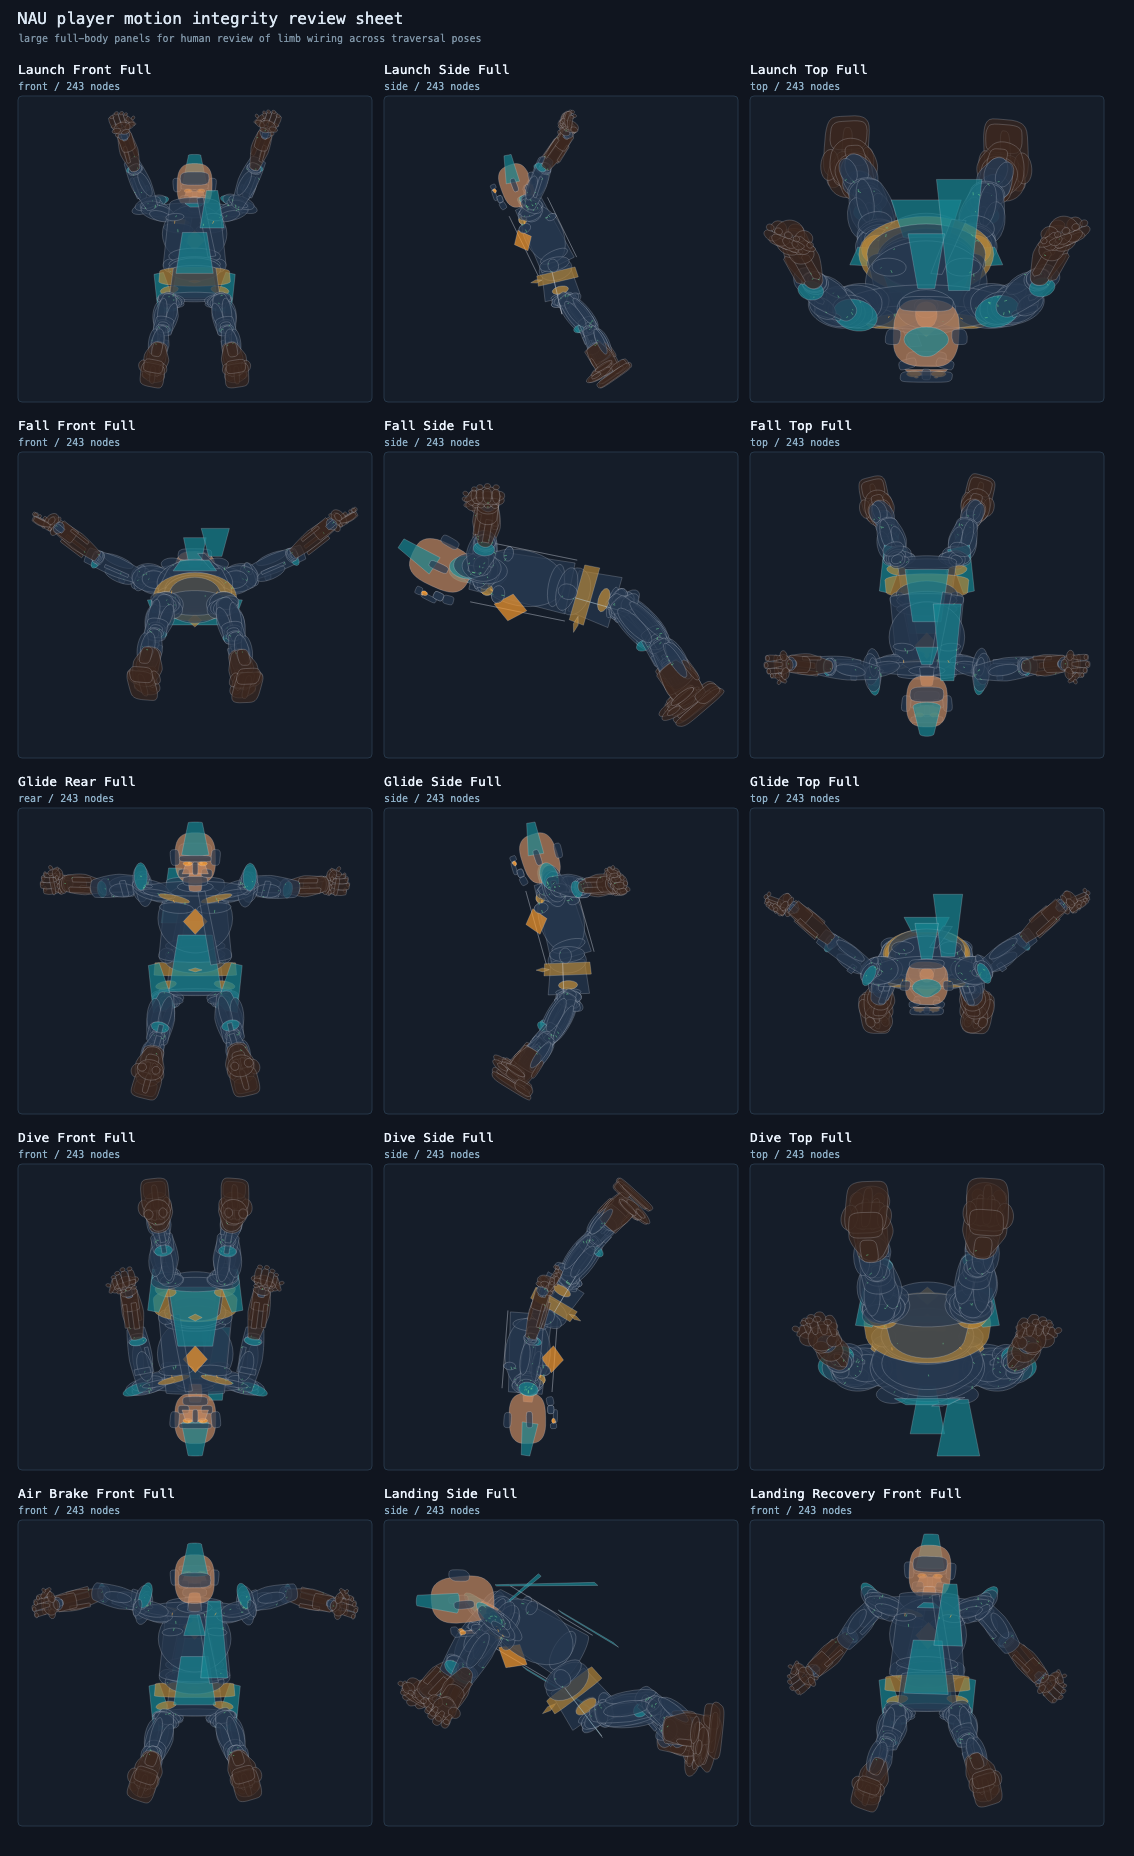
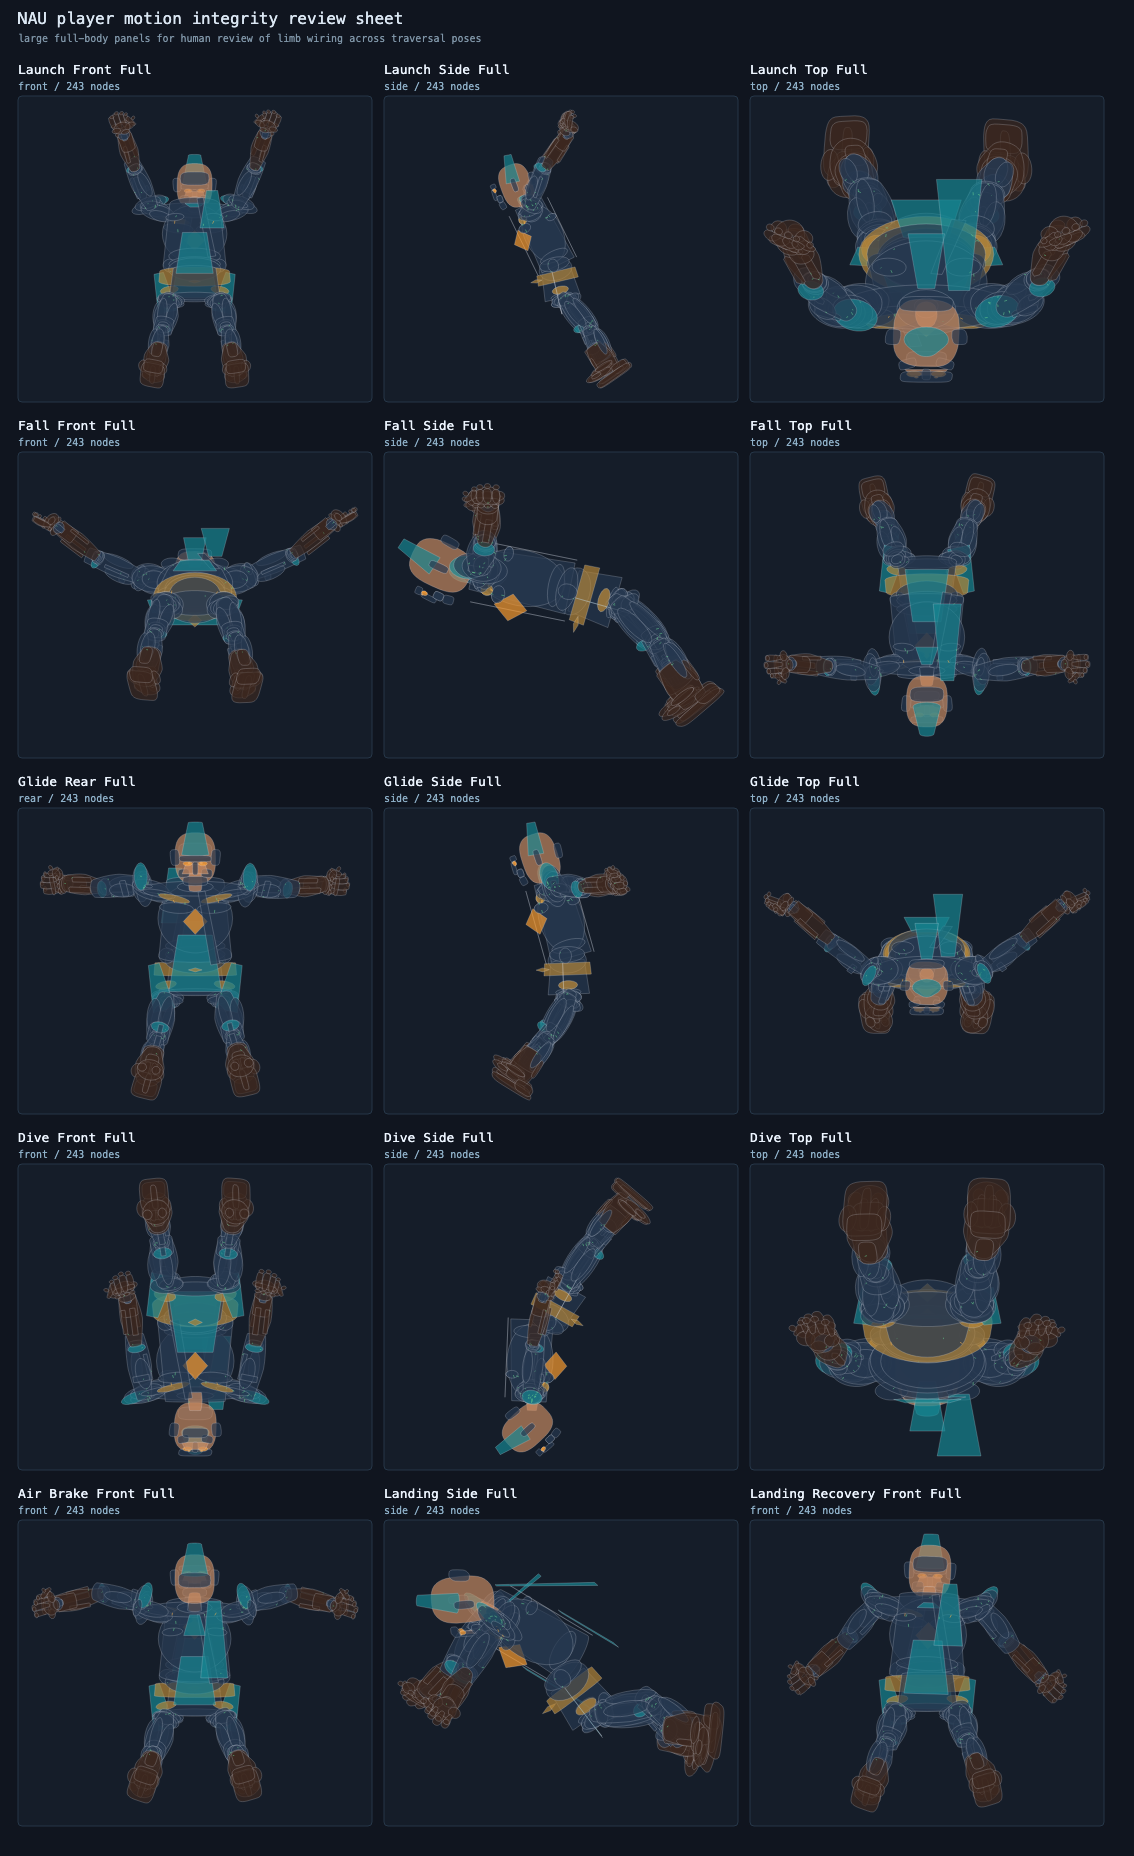
Refresh project showcase and documentation

Changed region(s): [[0.0926, 0.6562, 0.2469, 0.7812], [0.7099, 0.6562, 0.9259, 0.7812], [0.4321, 0.6562, 0.5556, 0.7812]]

diff --git a/README.md b/README.md
@@ -1,50 +1,37 @@
 # NAU Engine
 
-Mac-first Rust/Bevy flight sandbox for tuning traversal feel before growing into a broader engine.
+Mac-first Rust/Bevy flight traversal sandbox built around one playable loop: launch from the terrain, deploy the glider, read wind and lift, collect a route of one-shot air gates, land on an island or the world floor, then relaunch or reset.
 
-The current focus is narrow: make glide, dive, lift, camera framing, authored player motion, and route readability measurable enough that changes can be reviewed by eye and by eval output.
+The current world combines **41 floating islands** with a streamed playable world floor. Twelve non-overlapping air gates form a three-gate main corridor plus optional low and high-altitude branches; the top-right HUD tracks unique collections, and `Esc` opens a compact pause, controls, and quit menu.
 
 <p align="center">
-  <img src="docs/showcase/great_sky_plateau_high_crossing.png" alt="Glider crossing the high archipelago route" width="100%">
+  <img src="docs/showcase/air_gate_route_midflight.png" alt="Nau gliding through the twelve-gate floating-island route" width="100%">
 </p>
 
 <p align="center">
-  <img src="docs/showcase/updraft_high_glide.png" alt="Glider approaching visible updraft columns and route markers" width="49%">
-  <img src="docs/showcase/player_rig_stress_review_sheet.png" alt="Player rig stress review sheet" width="49%">
+  <img src="docs/showcase/world_floor_far_route.png" alt="The air route seen above the streamed playable world floor" width="49%">
+  <img src="docs/showcase/world_floor_distant_islands.png" alt="Distant floating islands above the playable world floor" width="49%">
 </p>
 
-## What Exists
+## Current Playable State
 
-- A small third-person flight playground with launch, glide, dive, air-brake, landing anticipation, and landing recovery states.
-- A self-authored player/glider fixture with pose-intent animation, connector checks, silhouette review, and visual pose sheets.
-- Floating-island traversal routes with generated terrain, water, clouds, route markers, updraft ribbons, crosswind cues, and debug overlays.
-- Scripted evals for movement, camera stability, route progress, collision, fixture readiness, visual readability, and screenshot audits.
+- Launch, glide, steer, dive, air-brake, collect gates, land, recover, and relaunch across floating-island and world-floor terrain.
+- Traverse authored updrafts, crosswind lanes, visible airflow cues, and gust-varied wind that affects both player motion and glider response.
+- Fly a self-authored player/glider fixture with grounded, launch, fall, bank, glide, dive, brake, landing-anticipation, and recovery animation states.
+- Collide with island terrain, cliff bodies, trees, rocks, landmarks, and world-floor terrain; use the central-island reset when a route breaks down.
+- Review movement, camera, collision, route progress, streaming, visual readability, fixture integrity, and release performance through measured sim/app evals, screenshot audits, exports, and scripted play profiles.
 
-## Visual Review
-
-These are checked-in copies of generated eval artifacts. The source outputs live under `target/eval/`, `target/player_pose_preview/`, and export-specific `target/` folders after running the relevant scripts.
-
-See [Showcase](SHOWCASE.md) for the fuller image set.
-
-<p align="center">
-  <img src="docs/showcase/long_glide_archipelago_midroute.png" alt="Long glide archipelago midroute screenshot" width="49%">
-  <img src="docs/showcase/great_sky_plateau_summit_climb.png" alt="Great sky plateau summit climb screenshot" width="49%">
-</p>
-
-<p align="center">
-  <img src="docs/showcase/player_glider_attachment_sheet.png" alt="Player and glider attachment pose sheet" width="49%">
-  <img src="docs/showcase/player_motion_integrity_review_sheet.png" alt="Player motion integrity review sheet" width="49%">
-</p>
+See the [Showcase](SHOWCASE.md) for gameplay, world scale, UI, and player/glider review captures. Detailed world-floor acceptance mechanics and evidence live in the [decision record](docs/DECISIONS/0002-world-floor-perf-first.md), [requirements audit](docs/world-floor-requirements-audit.md), and [acceptance report](docs/world-floor-acceptance-report.md).
 
 ## Run
 
-Install Rust with `rustup`, then:
+Install Rust with `rustup`, then use release mode for play-feel and performance review:
 
 ```sh
 cargo run --release -- --play
 ```
 
-Use release mode for judging play feel and performance. Debug mode keeps the readout and gizmos available for development:
+Debug mode enables the diagnostic readout and gizmos:
 
 ```sh
 cargo run -- --debug
@@ -56,47 +43,6 @@ Repo-local alias:
 cargo naux
 ```
 
-## Useful Checks
-
-```sh
-cargo check
-cargo fmt --check
-cargo test
-cargo clippy --all-targets --all-features -- -D warnings
-```
-
-The world-floor revamp checkpoint is accepted. It provides playable near-original-level terrain, uses one shared terrain sampler for rendering and gameplay, preserves island-surface precedence, and maintains a streamed `3x3` visible window backed by a pool bounded to `25` tiles.
-
-Automated tooling:
-
-```sh
-./tools/world_floor_full_gate.sh
-./tools/world_floor_candidate_gate.sh
-```
-
-The accepted checkpoint has clean main-vs-candidate app perf results plus both mandatory foreground profiles:
-
-```sh
-NAU_PLAY_PROFILE_SCRIPT=freeflight ./tools/scripted_play_profile.sh target/eval/play_profile/candidate_scripted_freeflight.json
-NAU_PLAY_PROFILE_SCRIPT=ground_traversal ./tools/scripted_play_profile.sh target/eval/play_profile/candidate_scripted_ground_traversal.json
-```
-
-Automation must verify sampler parity, island precedence, visible-window coverage, the `25`-tile pool bound, frame-time and hitch budgets, mesh/material/triangle cost, and stream churn. Screenshots support visual review but cannot accept the feature.
-
-The final gate is a human release playtest on the target Mac: land on the world floor, walk, run, launch, and fly back into traversal while checking collision/grounding, transitions, camera feel, visible coverage, frame pacing, fan, and heat. This manual sequence was completed for the accepted checkpoint and remains mandatory after future behavioral changes; it has no automated waiver. A visual-only plane at `y=-260`, a one-tile floor, or a report generated only from automated evidence is not success.
-
-Visual and fixture artifacts:
-
-```sh
-./tools/player_pose_preview.sh target/player_pose_preview
-NAU_EVAL_SCREENSHOT=1 ./tools/eval.sh long_glide_visibility target/eval/long_glide_visibility
-NAU_EVAL_SCREENSHOT=1 ./tools/eval.sh updraft_route target/eval/updraft_route
-./tools/eval_sim_suite.sh target/eval/sim_suite
-./tools/terrain_export.sh target/terrain_export
-./tools/visual_content_export.sh target/visual_content_export
-./tools/wind_visual_export.sh target/wind_visual_export
-```
-
 ## Controls
 
 |Input|Action|
@@ -105,19 +51,44 @@ NAU_EVAL_SCREENSHOT=1 ./tools/eval.sh updraft_route target/eval/updraft_route
 |`A` / `D`|Strafe/steer|
 |Mouse|Look while locked or while right mouse is held|
 |Left click|Lock and hide the mouse cursor|
-|Esc|Open the pause menu; return from controls|
-|`Space`|Deploy glider while airborne|
+|`Esc`|Open the pause menu; return from controls|
+|`Space`|Deploy the glider while airborne|
 |`E`|Launch upward from the ground|
 |`Shift`|Dive|
 |`R`|Reset to the central playtest island|
 |`F1`|Toggle debug gizmos in `--debug` mode|
 
-The top-right HUD tracks unique aerial boost gates collected during the current session. Open
-the compact pause menu for the same score, the controls reference, resume, and quit actions.
+Air gates score once per session and disappear after collection. The HUD and pause menu show the same authoritative total.
+
+## Verification
+
+Core Rust checks:
+
+```sh
+cargo check
+cargo fmt --check
+cargo test
+cargo clippy --all-targets --all-features -- -D warnings
+```
+
+Representative measured tooling (`jq` is required by the aggregate scripts):
+
+```sh
+./tools/manual_play_profile.sh target/eval/play_profile/manual.json
+./tools/eval_sim_suite.sh target/eval/sim_suite
+cargo run -- --eval long_glide_visibility --eval-output target/eval/long_glide_visibility
+./tools/player_pose_preview.sh target/player_pose_preview
+./tools/terrain_export.sh target/terrain_export
+./tools/visual_content_export.sh target/visual_content_export
+./tools/wind_visual_export.sh target/wind_visual_export
+```
+
+Release comparison and world-floor regression gates remain available through `./tools/perf_baseline.sh`, `./tools/world_floor_full_gate.sh`, and `./tools/world_floor_candidate_gate.sh`. Human release play remains part of acceptance after behavioral changes; the linked acceptance documents define the full contract.
 
 ## Docs
 
 - [Architecture](docs/ARCHITECTURE.md)
+- [Project Status](docs/STATUS.md)
 - [Eval Spec](docs/EVAL_SPEC.md)
 - [Flight Mechanics](docs/MECHANICS/flight.md)
 - [Roadmap](docs/ROADMAP.md)

diff --git a/SHOWCASE.md b/SHOWCASE.md
@@ -1,21 +1,39 @@
 # NAU Engine Showcase
 
-Visual snapshots from the current Rust/Bevy traversal sandbox: clean eval screenshots, generated character rig review sheets, and export metrics from the content pipeline.
+Current gameplay captures and generated review artifacts from the Rust/Bevy traversal sandbox.
 
-## Route Captures
+## Current Gameplay
 
 <p align="center">
-  <img src="docs/showcase/great_sky_plateau_high_crossing.png" alt="Glider crossing the high archipelago route" width="100%">
+  <img src="docs/showcase/air_gate_route_midflight.png" alt="Nau gliding through the twelve-gate floating-island route" width="100%">
 </p>
 
 <p align="center">
-  <img src="docs/showcase/updraft_high_glide.png" alt="Glider approaching updraft columns and route markers" width="49%">
-  <img src="docs/showcase/long_glide_archipelago_midroute.png" alt="Long glide archipelago midroute screenshot" width="49%">
+  <img src="docs/showcase/updraft_high_glide.png" alt="Glider approaching visible updraft columns and route markers" width="49%">
+  <img src="docs/showcase/great_sky_plateau_high_crossing.png" alt="Glider crossing the high archipelago route" width="49%">
 </p>
 
 <p align="center">
-  <img src="docs/showcase/great_sky_plateau_summit_climb.png" alt="Great sky plateau summit climb screenshot" width="100%">
+  <img src="docs/showcase/long_glide_archipelago_midroute.png" alt="Long-glide archipelago route in flight" width="49%">
+  <img src="docs/showcase/great_sky_plateau_summit_climb.png" alt="Glider climbing toward the Great Sky Plateau summit" width="49%">
 </p>
+
+## World-Floor Scale
+
+<p align="center">
+  <img src="docs/showcase/world_floor_far_route.png" alt="The floating-island route above the streamed playable world floor" width="49%">
+  <img src="docs/showcase/world_floor_distant_islands.png" alt="Distant floating islands above the playable world floor" width="49%">
+</p>
+
+The route spans 41 floating islands above a streamed, landable world floor that supports grounded traversal and relaunch.
+
+## UI And Objectives
+
+<p align="center">
+  <img src="docs/showcase/pause_menu.png" alt="Current pause menu showing the shared twelve-gate objective total" width="72%">
+</p>
+
+Twelve one-shot air gates cover the main corridor and optional low and high-altitude branches. The HUD and pause menu share the authoritative collection total.
 
 ## Player And Glider Review
 
@@ -28,19 +46,23 @@ Visual snapshots from the current Rust/Bevy traversal sandbox: clean eval screen
   <img src="docs/showcase/player_motion_integrity_review_sheet.png" alt="Player motion integrity review sheet" width="72%">
 </p>
 
-## Generated Content
+These generated sheets review authored attachment, silhouette, transition, and motion integrity across grounded movement, launch, glide, dive, air-brake, and landing states.
 
-- Terrain export: 41 islands, 164 meshes, 167,444 vertices, 318,816 triangles.
-- Visual content export: 543 meshes, 530,169 vertices, 542,804 triangles.
-- Wind visual export: 30 fields, 2,626 visuals, 328,812 sampled tracks.
+## Measured Content
+
+- Terrain export: 41 islands, 164 meshes, 194,996 vertices, 366,048 triangles.
+- Visual content export: 570 meshes, 538,211 vertices, 554,894 triangles.
+- Wind visual export: 38 fields, 3,338 visuals, 417,852 sampled tracks.
+
+These totals were regenerated from the current source with the commands below. The checked-in images are selected outputs from the same eval, world-floor evidence, UI, and pose-preview pipelines.
 
 ## Reproduce
 
 ```sh
 ./tools/player_pose_preview.sh target/player_pose_preview
-NAU_EVAL_SCREENSHOT=1 ./tools/eval.sh updraft_route target/eval/updraft_route
-NAU_EVAL_SCREENSHOT=1 ./tools/eval.sh long_glide_visibility target/eval/long_glide_visibility
-NAU_EVAL_SCREENSHOT=1 ./tools/eval.sh great_sky_plateau_route target/eval/great_sky_plateau_route
+cargo run -- --eval updraft_route --eval-output target/eval/updraft_route
+cargo run -- --eval long_glide_visibility --eval-output target/eval/long_glide_visibility
+cargo run -- --eval great_sky_plateau_route --eval-output target/eval/great_sky_plateau_route
 ./tools/terrain_export.sh target/terrain_export
 ./tools/visual_content_export.sh target/visual_content_export
 ./tools/wind_visual_export.sh target/wind_visual_export

diff --git a/docs/STATUS.md b/docs/STATUS.md
@@ -122,8 +122,9 @@ Both windowless and app-backed `long_glide_visibility` preserve exactly three ma
 
 ## Last Known Good
 
-- Current open-sandbox baseline: latest `main` after merged PR `#396`, including the accepted world-floor checkpoint
-- Recent merged PRs: `#391` - Stabilize island impostor LOD rendering; `#392` - Fix camera obstruction handoff; `#393` - Add player wind-shear effects; `#394` - Polish wind ribbons; `#395` - Bound dive head-gaze transitions; `#396` - Add playable streamed world terrain
+- Current merged open-sandbox baseline: latest `main` after PR `#397`, including the accepted world-floor checkpoint and compact game UI
+- Active candidate: PR `#398` expands the objective route to twelve gates while reducing resident gate-marker entities
+- Recent merged PRs: `#391` - Stabilize island impostor LOD rendering; `#392` - Fix camera obstruction handoff; `#393` - Add player wind-shear effects; `#394` - Polish wind ribbons; `#395` - Bound dive head-gaze transitions; `#396` - Add playable streamed world terrain; `#397` - Add compact game UI and aerial gate score
 - Verification:
   - `cargo check`
   - `cargo fmt --check`
@@ -173,7 +174,7 @@ Use these notes to steer the next long `/goal` run. They are product-quality fee
 - The seven non-player authored world glTF fixture scenes now spawn visibly on route islands after scene readiness, and evals gate their visible fixture-kind count separately from the existing load/spawn/ready scene lifecycle counters.
 - `F1` toggles debug gizmos for player vectors, camera line, visual wind/updraft stream fields, and gameplay lift fields in the default debug sandbox.
 - Visual `WindField` volumes now drive both readable airflow visuals/diagnostics and bounded horizontal airborne current: crosswinds push laterally, updraft swirl bends horizontal motion, gust-varied wind load from the total applied wind-current delta feeds readable body/glider reaction, every gameplay updraft route node overlaps an angled crosswind layer, wind guide/ribbon visual motion, stream variation, depth span, scale pulse, coherence, ribbon-specific advected scene-sample flow, wind-load pose/glider response, and force-to-flow alignment are checked against shared `WindField::flow_at` vectors, and paired vertical climb uses the same updraft flow for thermal-core/gust/edge lift modulation while remaining capped by `LiftField`.
-- Five authored aerial boost gates are visible as glowing route rings, apply capped forward/upward boosts while airborne, disappear after collection, and report visible/collected/active-effect counters in the game HUD and eval metrics. The original three remain on the main glide corridor; the low-reef and upper-thermal additions reward optional recovery and high-route exploration.
+- Twelve authored aerial boost gates are visible as glowing route rings, apply capped forward/upward boosts while airborne, disappear after collection, and report visible/collected/active-effect counters in the game HUD and eval metrics. The original three remain on the main glide corridor; nine optional gates reward low-reef, upper-thermal, and high-altitude route exploration.
 - `sunlit terrace` and `western refuge` are marked as recovery branch islands with visible mast/ring beacons.
 - Reusable logic now lives in dedicated modules for asset readiness, movement, environment, camera, route-surface/world math, diagnostics, eval metrics, and richer pose math.
 - `ground_taxi_control` eval proves pre-launch camera-relative WASD moves the player across the launch island without leaving grounded mode.